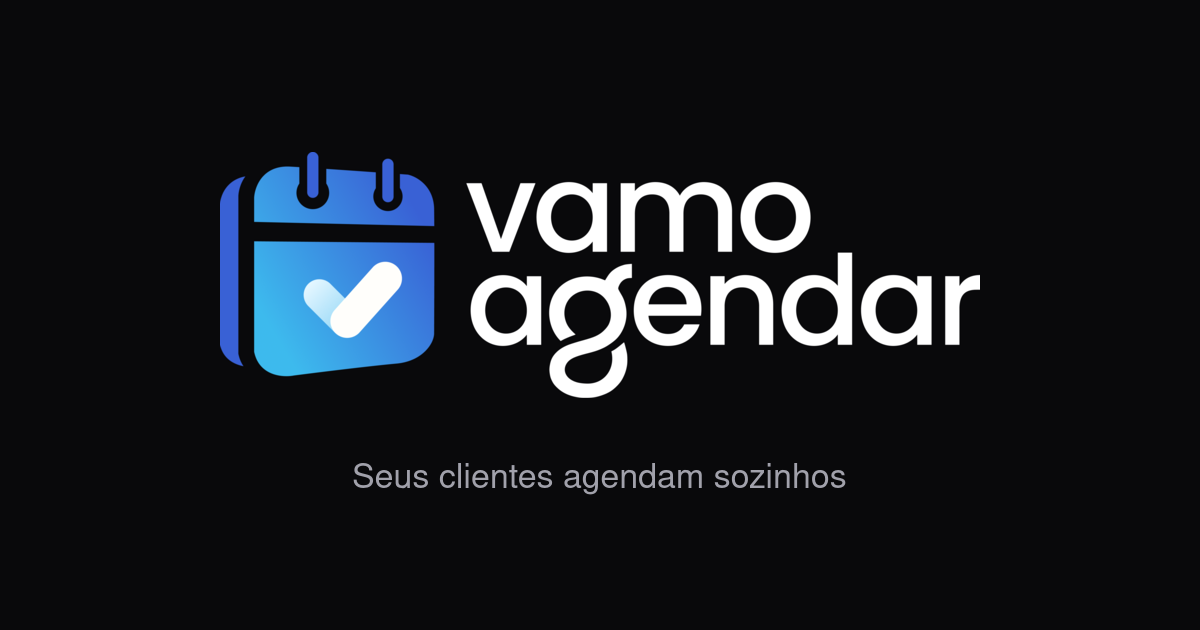
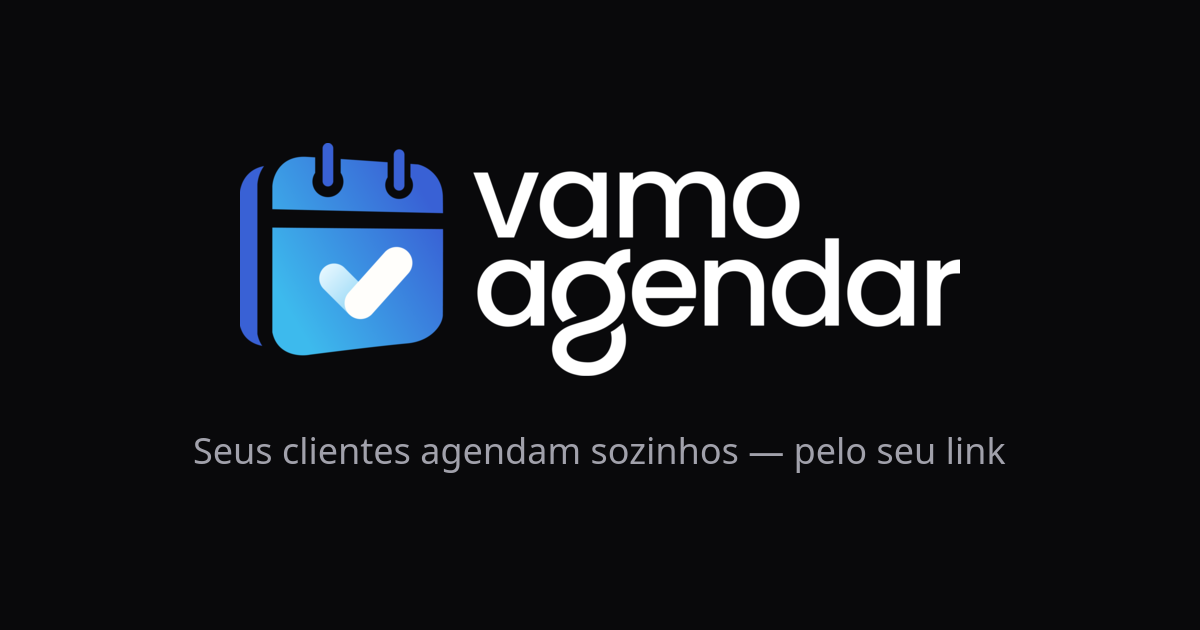
feat: configure root layout with Clerk, custom fonts, theme provider, and Open Graph metadata

Changed region(s): [[0.185, 0.2111, 0.8325, 0.6333], [0.1542, 0.6937, 0.8325, 0.7841]]

diff --git a/src/app/layout.tsx b/src/app/layout.tsx
@@ -25,9 +25,34 @@ const poppins = Poppins({
 });
 
 export const metadata: Metadata = {
+  metadataBase: new URL("https://vamoagendar.com.br"),
   title: "VamoAgendar — Seus clientes agendam sozinhos",
   description:
     "Agendamento online para profissionais: compartilhe um link, seus clientes escolhem serviço e horário sem cadastro, e você recebe confirmação e lembretes automáticos.",
+  openGraph: {
+    title: "VamoAgendar — Seus clientes agendam sozinhos",
+    description:
+      "Agendamento online para profissionais: compartilhe um link, seus clientes escolhem serviço e horário sem cadastro, e você recebe confirmação e lembretes automáticos.",
+    url: "https://vamoagendar.com.br",
+    siteName: "VamoAgendar",
+    images: [
+      {
+        url: "/og.png",
+        width: 1200,
+        height: 630,
+        alt: "VamoAgendar — Seus clientes agendam sozinhos",
+      },
+    ],
+    locale: "pt_BR",
+    type: "website",
+  },
+  twitter: {
+    card: "summary_large_image",
+    title: "VamoAgendar — Seus clientes agendam sozinhos",
+    description:
+      "Agendamento online para profissionais: compartilhe um link, seus clientes escolhem serviço e horário sem cadastro, e você recebe confirmação e lembretes automáticos.",
+    images: ["/og.png"],
+  },
 };
 
 export default function RootLayout({